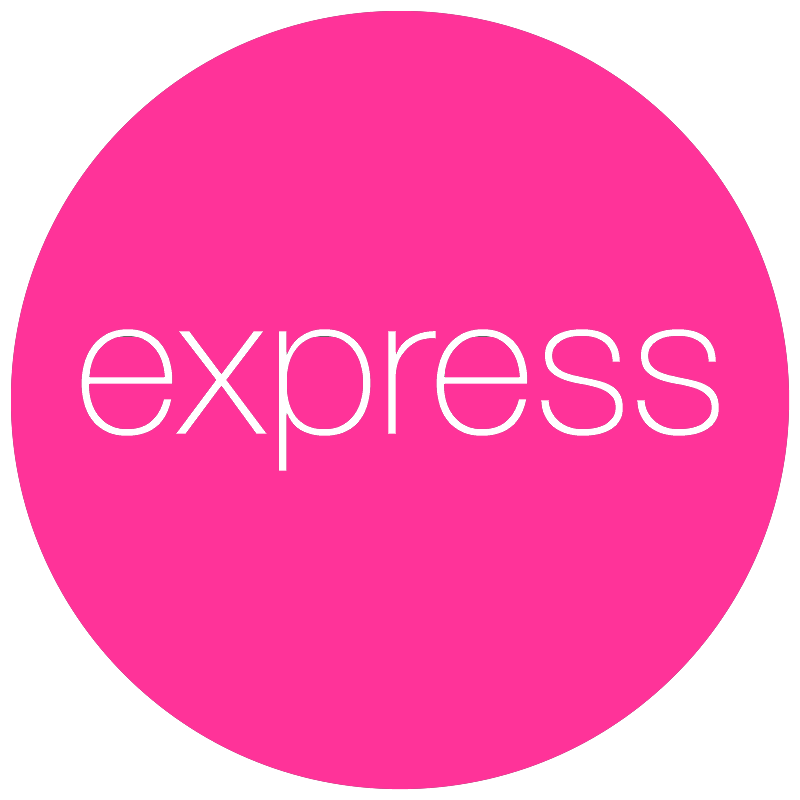
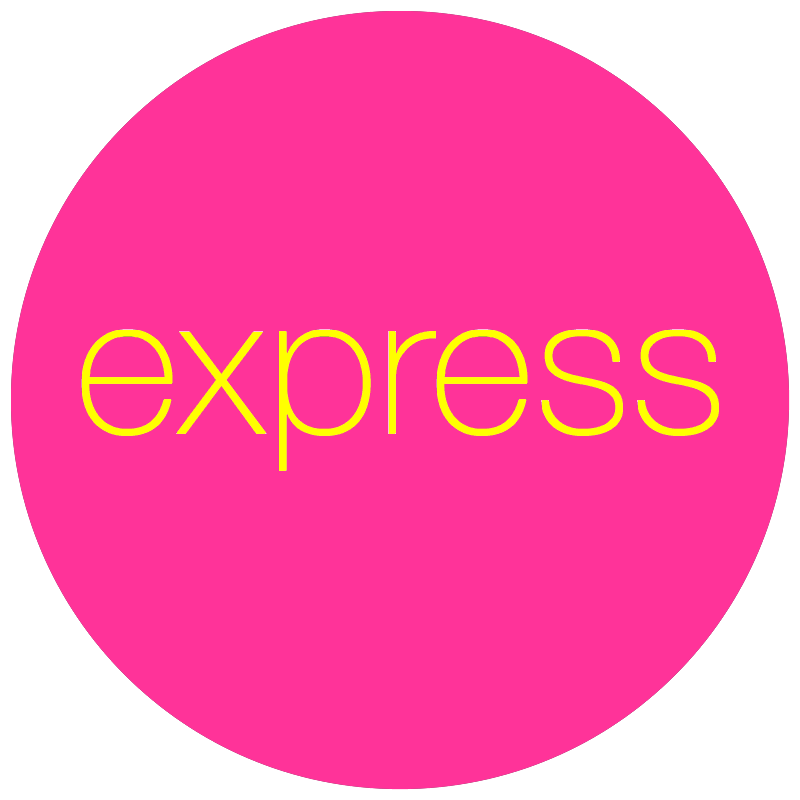
hover

Changed region(s): [[0.0938, 0.4062, 0.9062, 0.5938], [0.125, 0.5312, 0.1875, 0.5625]]

diff --git a/README.md b/README.md
@@ -1,6 +1,7 @@
 ### Hola! Mi nombre es
 
-<a href="#"><img src = "https://i.postimg.cc/HLj3Ttbw/GitHub2.png"></a>
+<a ><img src = "img/GitHub2.png"></a>
+<a href="#"><img alt="Cambiar imagen" onmouseout="this.src='/img/GitHub2.png';" onmouseover="this.src='/img/GitHub2.png';" src="/img/GitHub2.png" /></a>
 
 ⭐ Actualmente estudio para ser un Desarrollador Full Stack, en <a href="https://www.digitalhouse.com/co/">DIGITAL HOUSE</a>.  Espero llegar a ser un gran programador, me apasiona la tecnología, busco oportunidades para aprender, apoyar, colaborar y siempre avanzar hacia la meta.
 
